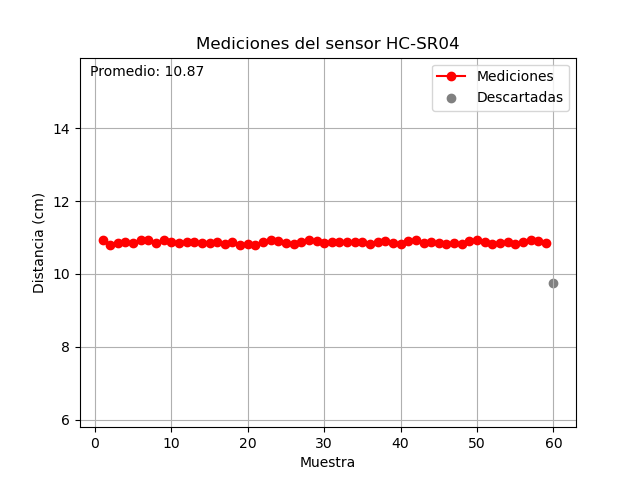
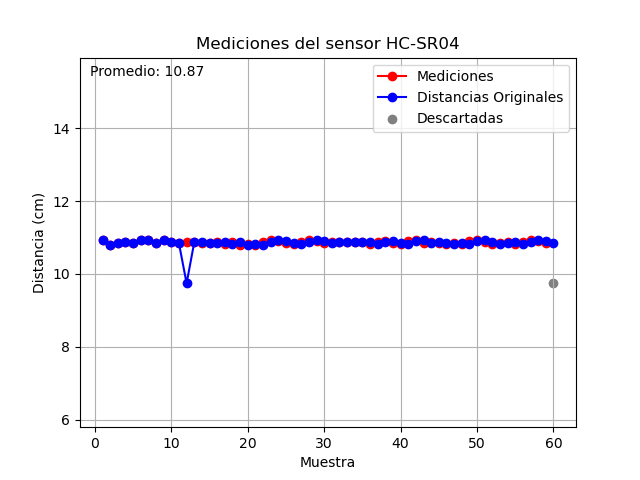
agrego las distancias sin decision a los graficos

Changed region(s): [[0.1562, 0.4688, 0.875, 0.5938], [0.5938, 0.125, 0.9062, 0.2812]]

diff --git a/proyecto/sensores_aux/sensor_ultrasonido_resultados_2.py b/proyecto/sensores_aux/sensor_ultrasonido_resultados_2.py
@@ -41,9 +41,11 @@ for archivo_mediciones in archivos_mediciones:
 
     # Crear una lista de números de muestra para el eje x
     muestras = range(1, len(distancias_filtradas) + 1)
+    muestras2 = range(1, len(distancias) + 1)
 
     # Graficar las distancias
     plt.plot(muestras, distancias_filtradas, 'ro-', label='Mediciones')
+    plt.plot(muestras2, distancias, 'bo-', label='Distancias Originales')
     plt.scatter([len(distancias_filtradas) + i + 1 for i in range(len(distancias_descartadas))],
                 distancias_descartadas, color='gray', label='Descartadas')
     plt.xlabel('Muestra')
